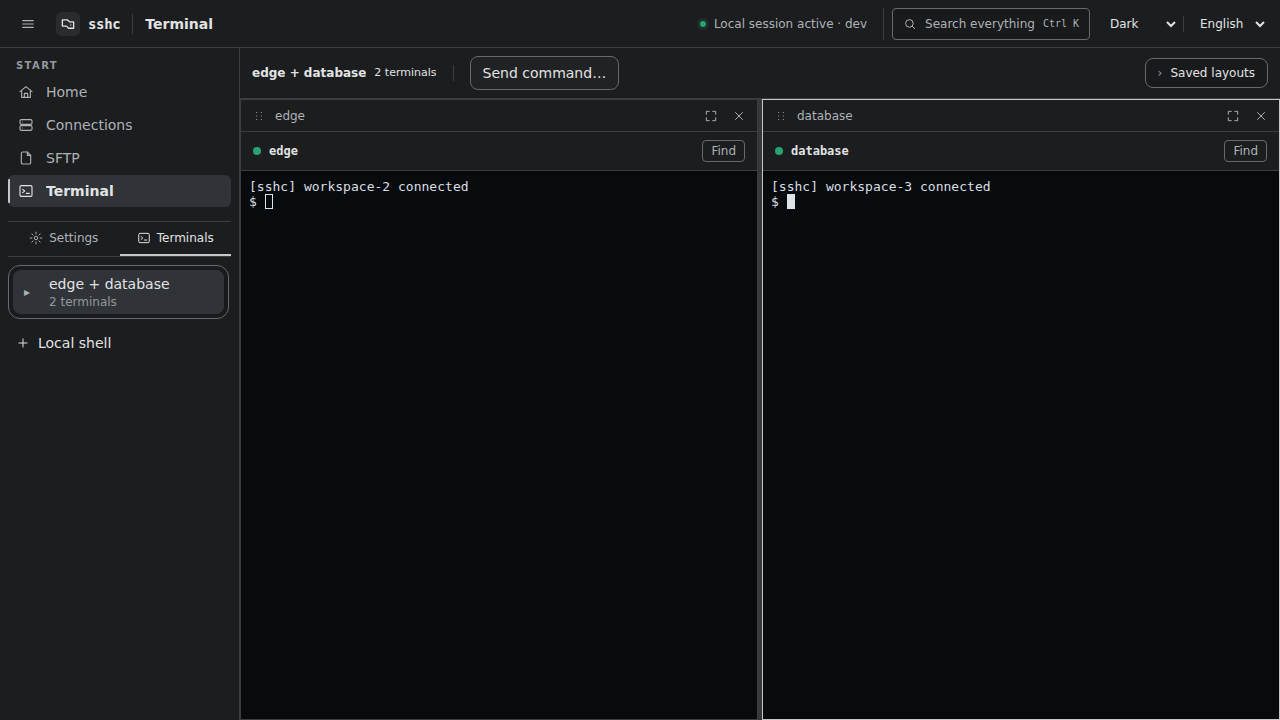
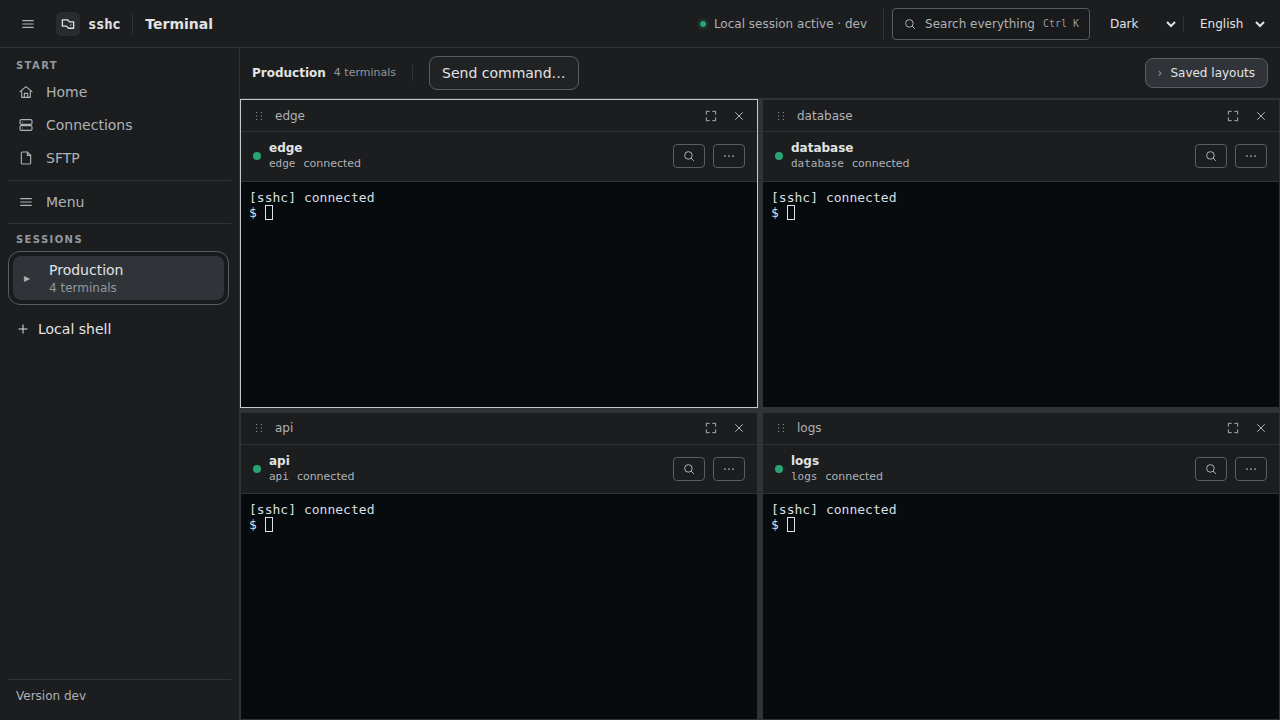
docs(pages): トップに4分割Terminalを表示

diff --git a/pages/.vitepress/config.ts b/pages/.vitepress/config.ts
@@ -90,7 +90,7 @@ export default defineConfig({
     ["meta", { property: "og:type", content: "website" }],
     ["meta", { property: "og:title", content: "sshc" }],
     ["meta", { property: "og:description", content: "SSHとローカルシェルを扱うターミナルアプリ。OpenSSH設定をそのまま使い、SFTP、認証情報の再利用、AIエージェント向けCLI、暗号化同期に対応。" }],
-    ["meta", { property: "og:image", content: "https://aida0710.github.io/sshc/images/terminal-desktop.png" }],
+    ["meta", { property: "og:image", content: "https://aida0710.github.io/sshc/images/workspace-desktop.png" }],
     ["meta", { name: "twitter:card", content: "summary_large_image" }],
     ["link", { rel: "icon", href: `${base}logo.svg`, type: "image/svg+xml" }],
   ],

diff --git a/pages/index.md b/pages/index.md
@@ -18,7 +18,7 @@ outline: false
       </div>
     </div>
     <div class="sshc-preview">
-      <img src="/images/terminal-desktop.png" alt="sshcでSSH接続を開いたTerminal画面" width="1280" height="720">
+      <img src="/images/workspace-desktop.png" alt="sshcで四つのSSH接続を開いたTerminal画面" width="1280" height="720">
     </div>
   </section>
 

diff --git a/pages/en/index.md b/pages/en/index.md
@@ -18,7 +18,7 @@ outline: false
       </div>
     </div>
     <div class="sshc-preview">
-      <img src="/images/terminal-desktop.png" alt="An SSH connection open in the sshc terminal" width="1280" height="720">
+      <img src="/images/workspace-desktop.png" alt="Four SSH connections open in the sshc terminal" width="1280" height="720">
     </div>
   </section>
 
